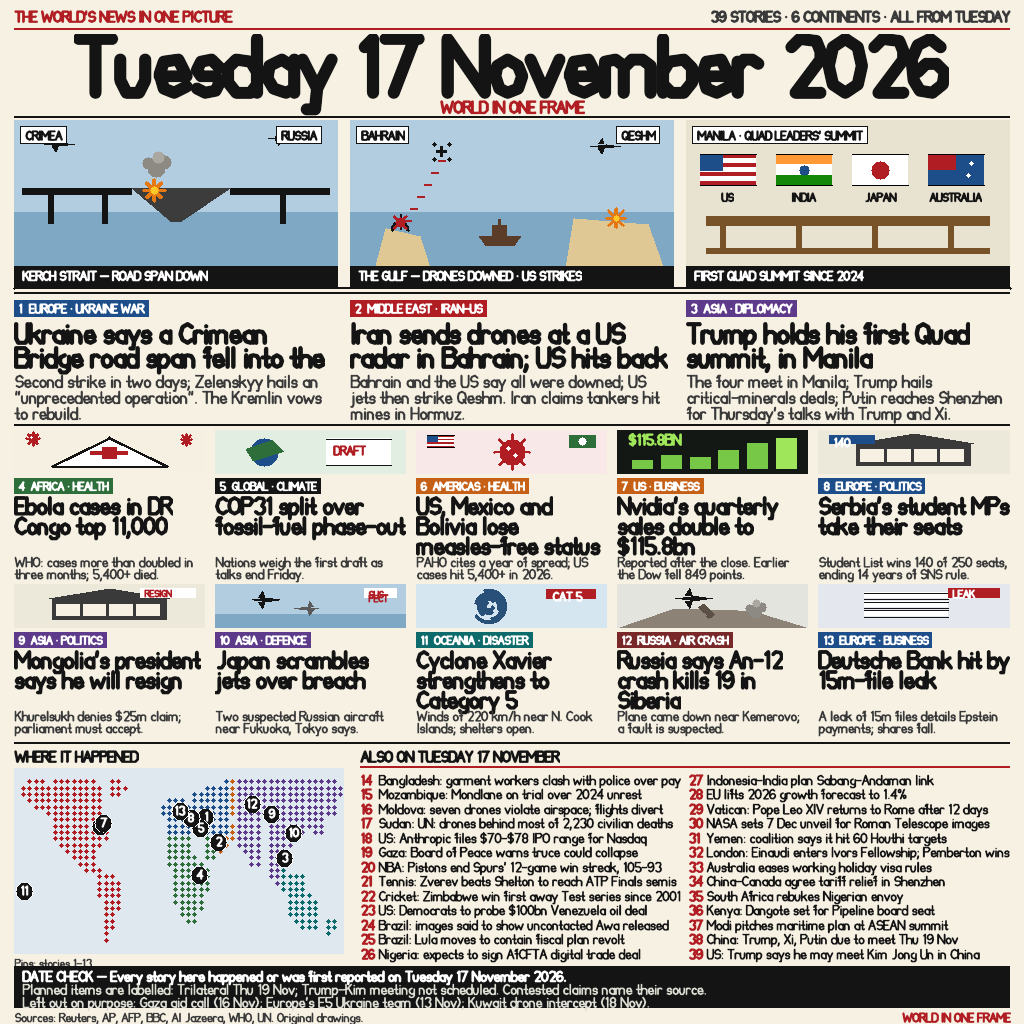
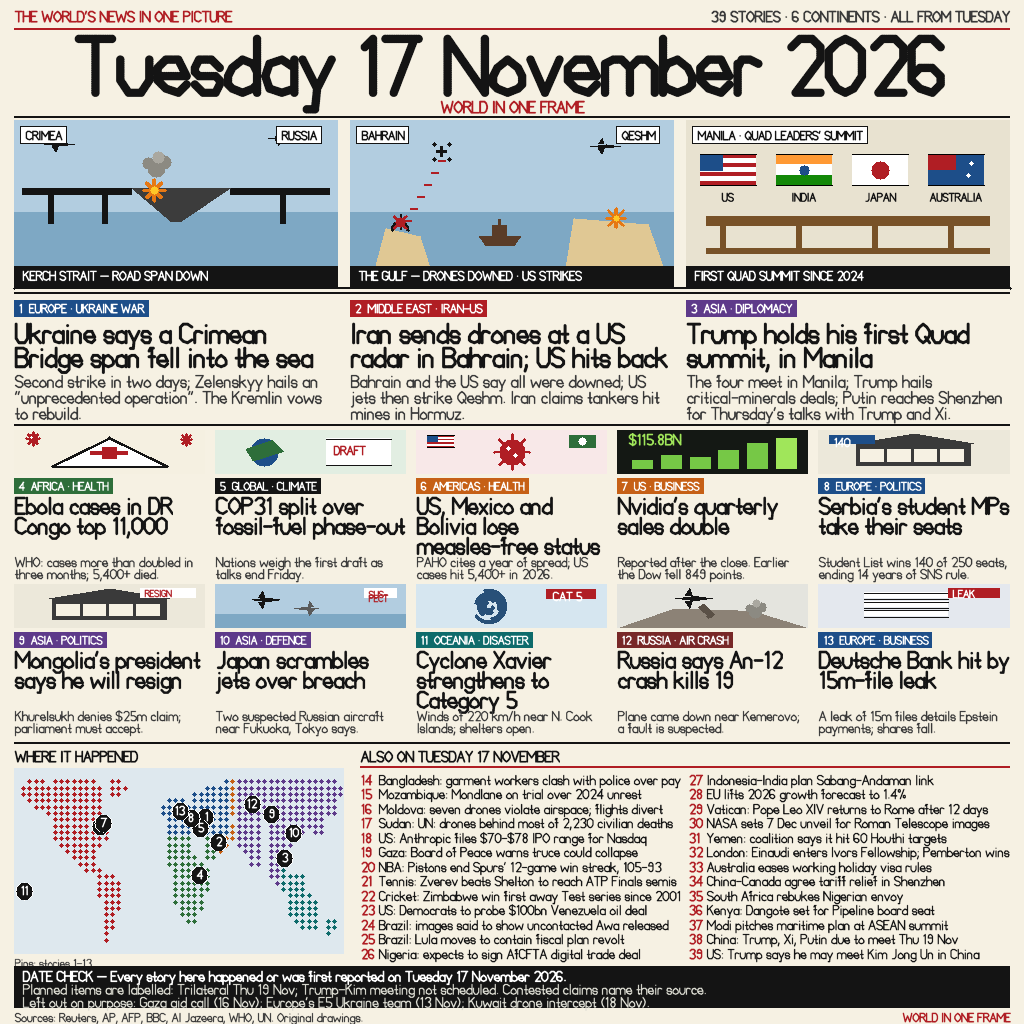
v6: structural typography rebuild — symmetric integer-grid glyphs, disc-stamp pen renderer, serif display mode, headline truncation fixes

diff --git a/main.py b/main.py
@@ -195,124 +195,127 @@ def write_png(cv, path):
     return len(png)
 
 # ------------------------------------------------- proportional stroke font
-# Hand-authored condensed sans. Coordinates: y=0 top of capitals,
-# y=14 baseline, y=18 descender bottom, x-height top y=6.
-# Each glyph: (advance width in units, [stroke, ...]); a stroke is a
-# polyline; a one-point stroke renders as a dot.
+# Hand-authored condensed sans, REDRAWN v6: every curve is a symmetric
+# integer-grid octagon/S-template (left vertex mirrors right vertex, top
+# mirrors bottom under 180-degree rotation for S/s/5/$). No fractional
+# coordinates except .5 centres (5.5, 4.5) which are symmetric by
+# construction. Coordinates: y=1 top of capitals, y=6 top of x-height,
+# y=14 baseline, y=18 descender bottom.
+# A serif render mode (draw_text serif=True) re-uses these skeletons:
+# vertical strokes render thick, horizontals thin, and short serif ticks
+# are added at steep stroke endpoints on y in {1, 6, 14}.
 FONT = {
     ' ': (5, []),
-    'A': (11, [[(1, 14), (5.5, 1), (10, 14)], [(3.2, 9), (7.8, 9)]]),
-    'B': (10, [[(1, 1), (1, 14)], [(1, 1), (7, 1), (9.5, 3.5), (7, 6.5), (1, 6.5)],
-             [(1, 6.5), (8, 6.5), (10.5, 9.5), (8, 14), (1, 14)]]),
-    'C': (10, [[(9, 3), (6, 1), (2.5, 3), (1, 8), (2.5, 12), (6, 14), (9, 12)]]),
-    'D': (10, [[(1, 1), (1, 14)], [(1, 1), (6.5, 1), (9.5, 4), (9.5, 11), (6.5, 14), (1, 14)]]),
-    'E': (9, [[(1, 1), (1, 14)], [(1, 1), (8, 1)], [(1, 7.5), (6.5, 7.5)], [(1, 14), (8, 14)]]),
-    'F': (9, [[(1, 1), (1, 14)], [(1, 1), (8, 1)], [(1, 7.5), (6.5, 7.5)]]),
-    'G': (10, [[(9, 3), (6, 1), (2.5, 3), (1, 8), (2.5, 12), (6, 14), (9, 12), (9, 8), (6, 8)]]),
-    'H': (10, [[(1, 1), (1, 14)], [(9, 1), (9, 14)], [(1, 7.5), (9, 7.5)]]),
+    'A': (11, [[(1, 14), (5.5, 1), (10, 14)], [(3, 9), (8, 9)]]),
+    'B': (10, [[(1, 1), (1, 14)], [(1, 1), (6, 1), (8, 2), (9, 4), (8, 6), (6, 7), (1, 7)],
+             [(1, 7), (6, 7), (8, 8), (9, 10), (9, 12), (7, 14), (1, 14)]]),
+    'C': (10, [[(9, 3), (6, 1), (3, 1), (1, 3), (1, 11), (3, 13), (6, 14), (9, 12)]]),
+    'D': (10, [[(1, 1), (1, 14)], [(1, 1), (6, 1), (8, 3), (9, 6), (9, 9), (8, 12), (6, 14), (1, 14)]]),
+    'E': (9, [[(1, 1), (1, 14)], [(1, 1), (8, 1)], [(1, 7), (6, 7)], [(1, 14), (8, 14)]]),
+    'F': (9, [[(1, 1), (1, 14)], [(1, 1), (8, 1)], [(1, 7), (6, 7)]]),
+    'G': (10, [[(9, 3), (6, 1), (3, 1), (1, 3), (1, 11), (3, 13), (6, 14), (9, 12), (9, 8), (6, 8)]]),
+    'H': (10, [[(1, 1), (1, 14)], [(9, 1), (9, 14)], [(1, 7), (9, 7)]]),
     'I': (4, [[(2, 1), (2, 14)]]),
-    'J': (9, [[(7, 1), (7, 11), (5, 14), (2.5, 14)]]),
-    'K': (10, [[(1, 1), (1, 14)], [(8, 1), (2, 7.5)], [(4, 5.5), (9, 14)]]),
+    'J': (9, [[(7, 1), (7, 11), (5, 14), (2, 14)]]),
+    'K': (10, [[(1, 1), (1, 14)], [(8, 1), (2, 7)], [(4, 5), (9, 14)]]),
     'L': (9, [[(1, 1), (1, 14)], [(1, 14), (8, 14)]]),
     'M': (13, [[(1, 14), (1, 1), (6.5, 9), (12, 1), (12, 14)]]),
     'N': (11, [[(1, 14), (1, 1), (10, 14), (10, 1)]]),
-    'O': (11, [[(5.5, 1), (2, 3), (1, 7.5), (2, 12), (5.5, 14), (9, 12), (10, 7.5), (9, 3), (5.5, 1)]]),
-    'P': (10, [[(1, 14), (1, 1)], [(1, 1), (7, 1), (9.5, 3.5), (7, 7), (1, 7)]]),
-    'Q': (11, [[(5.5, 1), (2, 3), (1, 7.5), (2, 12), (5.5, 14), (9, 12), (10, 7.5), (9, 3), (5.5, 1)],
+    'O': (11, [[(5.5, 1), (8, 3), (10, 6), (10, 9), (8, 12), (5.5, 14), (3, 12), (1, 9), (1, 6), (3, 3), (5.5, 1)]]),
+    'P': (10, [[(1, 1), (1, 14)], [(1, 1), (6, 1), (8, 2), (9, 4), (8, 6), (6, 7), (1, 7)]]),
+    'Q': (11, [[(5.5, 1), (8, 3), (10, 6), (10, 9), (8, 12), (5.5, 14), (3, 12), (1, 9), (1, 6), (3, 3), (5.5, 1)],
              [(7, 10), (10, 14)]]),
-    'R': (10, [[(1, 14), (1, 1)], [(1, 1), (7, 1), (9.5, 3.5), (7, 7), (1, 7)], [(5, 7), (10, 14)]]),
-    'S': (10, [[(9, 3.5), (6, 1), (2.5, 2.5), (1.5, 5.5), (3, 7.5), (8, 7.5), (9.5, 9.5),
-             (8.5, 12.5), (5, 14), (2, 12.5)]]),
+    'R': (10, [[(1, 1), (1, 14)], [(1, 1), (6, 1), (8, 2), (9, 4), (8, 6), (6, 7), (1, 7)], [(5, 7), (10, 14)]]),
+    'S': (10, [[(9, 3), (6, 1), (3, 1), (1, 3), (1, 5), (3, 7), (7, 8), (9, 10), (9, 12), (7, 14), (4, 14), (1, 12)]]),
     'T': (10, [[(1, 1), (9, 1)], [(5, 1), (5, 14)]]),
-    'U': (10, [[(1, 1), (1, 11), (2.5, 14), (7.5, 14), (9, 11), (9, 1)]]),
+    'U': (10, [[(1, 1), (1, 11), (3, 14), (7, 14), (9, 11), (9, 1)]]),
     'V': (11, [[(1, 1), (5.5, 14), (10, 1)]]),
-    'W': (15, [[(1, 1), (3.5, 14), (7, 5), (10.5, 14), (14, 1)]]),
+    'W': (15, [[(1, 1), (4, 14), (7.5, 5), (11, 14), (14, 1)]]),
     'X': (10, [[(1, 1), (9, 14)], [(9, 1), (1, 14)]]),
-    'Y': (10, [[(1, 1), (5, 7.5)], [(9, 1), (5, 7.5)], [(5, 7.5), (5, 14)]]),
+    'Y': (10, [[(1, 1), (5, 7)], [(9, 1), (5, 7)], [(5, 7), (5, 14)]]),
     'Z': (10, [[(1, 1), (9, 1)], [(9, 1), (1, 14)], [(1, 14), (9, 14)]]),
-    'a': (9, [[(8, 6), (8, 14)], [(8, 8), (5, 6), (2, 7.5), (1.5, 10.5), (3, 13), (6, 14), (8, 13)]]),
-    'b': (9, [[(1, 1), (1, 14)], [(1, 9), (2.5, 6.5), (6, 6), (8, 8), (8, 11.5), (6, 14), (3, 14), (1, 12)]]),
-    'c': (8, [[(7, 7.5), (5, 6), (2.5, 7), (1.5, 10), (2.5, 13), (5, 14), (7, 13)]]),
-    'd': (9, [[(8, 1), (8, 14)], [(8, 9), (6.5, 6.5), (3, 6), (1, 8), (1, 11.5), (3, 14), (6.5, 14), (8, 12)]]),
-    'e': (9, [[(8, 10), (6, 6), (2.5, 6.5), (1.5, 9.5), (2.5, 13), (5, 14), (8, 12.5)],
-             [(1.5, 10), (8, 10)]]),
-    'f': (6, [[(3.5, 1), (3.5, 14)], [(1, 3.5), (2.5, 1), (4.5, 1)], [(1, 7), (5, 7)]]),
-    'g': (9, [[(5, 6), (2, 7.5), (1.5, 10.5), (3, 13), (6, 14), (8, 12), (8, 7)],
-             [(8, 12), (8, 16), (6, 18), (2.5, 18), (1.5, 16.5)]]),
-    'h': (9, [[(1, 1), (1, 14)], [(1, 9), (3, 6.5), (6, 6.5), (8, 8), (8, 14)]]),
-    'i': (4, [[(2, 6), (2, 14)], [(2, 2.5)]]),
-    'j': (5, [[(3, 6), (3, 16), (2, 18), (0.5, 18)], [(3, 2.5)]]),
-    'k': (9, [[(1, 1), (1, 14)], [(7, 6), (2, 9.5)], [(3.5, 8), (8, 14)]]),
+    'a': (9, [[(8, 6), (8, 14)], [(8, 8), (5, 6), (2, 7), (1, 10), (2, 13), (5, 14), (8, 13)]]),
+    'b': (9, [[(1, 1), (1, 14)], [(1, 9), (2, 7), (4.5, 6), (7, 8), (8, 10), (8, 12), (7, 13), (4.5, 14), (2, 13), (1, 12)]]),
+    'c': (8, [[(7, 8), (5, 6), (2, 7), (1, 10), (2, 13), (5, 14), (7, 13)]]),
+    'd': (9, [[(8, 1), (8, 14)], [(8, 9), (7, 7), (4.5, 6), (2, 8), (1, 10), (1, 12), (2, 13), (4.5, 14), (7, 13), (8, 12)]]),
+    'e': (9, [[(8, 10), (6, 6), (3, 6), (1, 8), (1, 11), (3, 13), (6, 14), (8, 12)],
+             [(1, 10), (8, 10)]]),
+    'f': (6, [[(3, 1), (3, 14)], [(1, 3), (2, 1), (4, 1)], [(1, 7), (5, 7)]]),
+    'g': (9, [[(8, 6), (8, 14)], [(8, 8), (5, 6), (2, 7), (1, 10), (2, 13), (5, 14), (8, 13)],
+             [(8, 12), (8, 16), (6, 18), (3, 18), (1, 16)]]),
+    'h': (9, [[(1, 1), (1, 14)], [(1, 9), (2, 7), (4, 6), (6, 6), (8, 8), (8, 14)]]),
+    'i': (4, [[(2, 6), (2, 14)], [(2, 2)]]),
+    'j': (5, [[(3, 6), (3, 16), (2, 18), (1, 18)], [(3, 2)]]),
+    'k': (9, [[(1, 1), (1, 14)], [(7, 6), (2, 9)], [(3, 8), (8, 14)]]),
     'l': (4, [[(2, 1), (2, 14)]]),
-    'm': (14, [[(1, 14), (1, 6.5)], [(1, 6.5), (3.5, 6), (5.5, 7.5), (5.5, 14)],
-              [(5.5, 8), (7.5, 6), (10, 6), (12, 7.5), (12, 14)]]),
-    'n': (9, [[(1, 14), (1, 6.5)], [(1, 6.5), (3, 6), (5.5, 6.5), (7, 9), (7, 14)]]),
-    'o': (9, [[(4.5, 6), (2, 7.5), (1.5, 10), (2.5, 13), (4.5, 14), (7, 13), (8, 10), (7, 7.5), (4.5, 6)]]),
-    'p': (9, [[(1, 6), (1, 18)], [(1, 10), (2.5, 6.5), (5.5, 6), (7.5, 8), (7.5, 11), (5.5, 14), (2.5, 14), (1, 12.5)]]),
-    'q': (9, [[(8, 6), (8, 18)], [(8, 10), (6.5, 6.5), (3.5, 6), (1.5, 8), (1.5, 11), (3.5, 14), (6.5, 14), (8, 12.5)]]),
-    'r': (7, [[(1, 14), (1, 6.5)], [(1, 8), (2.5, 6), (4.5, 6), (6, 7)]]),
-    's': (8, [[(7, 8), (5, 6), (2.5, 6.5), (1.5, 8.5), (2.5, 10), (6, 10), (7, 11.5),
-             (6, 13.5), (3.5, 14), (1.5, 13)]]),
-    't': (6, [[(3, 1.5), (3, 13), (4.5, 14), (5.5, 13)], [(0.5, 7.5), (5, 7.5)]]),
-    'u': (9, [[(1, 6), (1, 11), (2.5, 14), (5.5, 14), (7, 11), (7, 6)]]),
+    'm': (14, [[(1, 14), (1, 7), (3, 6), (5, 6), (7, 8), (7, 14)],
+              [(7, 8), (9, 6), (11, 6), (13, 8), (13, 14)]]),
+    'n': (9, [[(1, 14), (1, 7), (3, 6), (5, 6), (7, 8), (7, 14)]]),
+    'o': (9, [[(4.5, 6), (7, 8), (8, 10), (8, 12), (7, 13), (4.5, 14), (2, 13), (1, 12), (1, 10), (2, 8), (4.5, 6)]]),
+    'p': (9, [[(1, 6), (1, 18)], [(1, 10), (2, 7), (4.5, 6), (7, 8), (8, 10), (8, 12), (7, 13), (4.5, 14), (2, 13), (1, 12)]]),
+    'q': (9, [[(8, 6), (8, 18)], [(8, 10), (7, 7), (4.5, 6), (2, 8), (1, 10), (1, 12), (2, 13), (4.5, 14), (7, 13), (8, 12)]]),
+    'r': (7, [[(1, 14), (1, 7)], [(1, 8), (2, 6), (4, 6), (6, 7)]]),
+    's': (8, [[(7, 8), (5, 6), (2, 6), (1, 8), (1, 9), (2, 10), (6, 10), (7, 11), (7, 12), (6, 14), (3, 14), (1, 12)]]),
+    't': (6, [[(3, 2), (3, 13), (4, 14), (5, 13)], [(1, 8), (5, 8)]]),
+    'u': (9, [[(1, 6), (1, 11), (3, 14), (6, 14), (8, 11), (8, 6)]]),
     'v': (9, [[(1, 6), (4.5, 14), (8, 6)]]),
-    'w': (13, [[(1, 6), (3, 14), (6, 8), (9, 14), (12, 6)]]),
+    'w': (13, [[(1, 6), (3, 14), (6.5, 8), (10, 14), (12, 6)]]),
     'x': (8, [[(1, 6), (7, 14)], [(7, 6), (1, 14)]]),
     'y': (9, [[(1, 6), (4.5, 13), (8, 6)], [(4.5, 13), (4, 18), (2, 18)]]),
     'z': (8, [[(1, 6), (7, 6)], [(7, 6), (1, 14)], [(1, 14), (7, 14)]]),
-    '0': (10, [[(5, 1), (2, 3), (1, 7.5), (2, 12), (5, 14), (8, 12), (9, 7.5), (8, 3), (5, 1)]]),
+    '0': (10, [[(5, 1), (7, 2), (9, 4), (9, 10), (7, 13), (5, 14), (3, 13), (1, 10), (1, 4), (3, 2), (5, 1)]]),
     '1': (6, [[(2, 3), (4, 1), (4, 14)]]),
-    '2': (10, [[(2, 3), (4, 1), (8, 1.5), (9, 4), (9, 6), (3, 14), (9, 14)]]),
-    '3': (10, [[(2, 3), (4, 1), (8, 1.5), (9, 4), (7, 7.5)], [(7, 7.5), (9, 9), (9, 12), (7, 14), (4, 14), (2, 12.5)]]),
+    '2': (10, [[(2, 3), (4, 1), (7, 1), (9, 3), (9, 6), (3, 14), (9, 14)]]),
+    '3': (10, [[(2, 3), (4, 1), (7, 1), (9, 3), (8, 6), (6, 7)], [(6, 7), (8, 8), (9, 10), (9, 12), (7, 14), (4, 14), (2, 13)]]),
     '4': (10, [[(7, 1), (7, 14)], [(1, 10), (9, 10)], [(8, 1), (1, 10)]]),
-    '5': (10, [[(8, 1), (1.5, 1), (1.5, 7)], [(1.5, 7), (6, 7), (9, 9), (9, 12), (7, 14), (4, 14), (2, 12)]]),
-    '6': (10, [[(8, 3), (5.5, 1), (2.5, 2.5), (1, 6), (1.5, 11), (3, 13.5), (6, 14),
-             (8.5, 12), (9, 9), (7, 7), (4.5, 7), (2.5, 9)]]),
+    '5': (10, [[(8, 1), (2, 1), (2, 7)], [(2, 7), (6, 7), (9, 9), (9, 12), (7, 14), (4, 14), (2, 13)]]),
+    '6': (10, [[(8, 3), (6, 1), (3, 1), (1, 3), (1, 11), (3, 13), (6, 14), (8, 12), (8, 10), (6, 8), (3, 8), (1, 10)]]),
     '7': (10, [[(1, 1), (9, 1)], [(8, 1), (3, 14)]]),
-    '8': (10, [[(5, 1), (2.5, 2.5), (1.5, 5), (3, 7.5), (7, 7.5), (8.5, 5), (7.5, 2.5), (5, 1)],
-             [(3, 7.5), (1.5, 10), (2.5, 13), (5, 14), (7.5, 13), (8.5, 10), (7, 7.5)]]),
-    '9': (10, [[(2, 12), (4.5, 14), (7.5, 12.5), (9, 9), (8.5, 4), (7, 1.5), (4, 1),
-             (1.5, 3), (1, 6), (2.5, 8), (5, 8), (7.5, 6)]]),
-    '.': (4, [[(2, 13.5)]]),
-    ',': (4, [[(2, 13), (2, 14.5), (1, 17)]]),
-    ':': (4, [[(2, 7)], [(2, 13.5)]]),
-    ';': (4, [[(2, 7)], [(2, 13), (2, 14.5), (1, 17)]]),
-    '!': (4, [[(2, 1), (2, 10.5)], [(2, 13.5)]]),
-    '?': (9, [[(2, 3.5), (3.5, 1), (7, 1.5), (8, 4), (7, 6.5), (4.5, 7.5), (4.5, 10)], [(4.5, 13.5)]]),
-    "'": (4, [[(2, 1), (1.5, 4.5)]]),
-    '\u2019': (4, [[(2, 1), (1.5, 4.5)]]),
-    '"': (7, [[(2, 1), (1.5, 4.5)], [(5, 1), (4.5, 4.5)]]),
-    '\u201c': (7, [[(2, 1), (1.5, 4.5)], [(5, 1), (4.5, 4.5)]]),
-    '\u201d': (7, [[(2, 1), (1.5, 4.5)], [(5, 1), (4.5, 4.5)]]),
+    '8': (10, [[(5, 1), (7, 2), (8, 4), (7, 6), (5, 7), (3, 6), (2, 4), (3, 2), (5, 1)],
+             [(5, 7), (7, 8), (8, 10), (7, 13), (5, 14), (3, 13), (2, 10), (3, 8), (5, 7)]]),
+    '9': (10, [[(2, 5), (3, 2), (5, 1), (7, 2), (8, 4), (8, 11), (7, 13), (5, 14), (3, 13), (2, 11)],
+             [(8, 6), (2, 6)]]),
+    '.': (4, [[(2, 13)]]),
+    ',': (4, [[(2, 13), (2, 14), (1, 17)]]),
+    ':': (4, [[(2, 7)], [(2, 13)]]),
+    ';': (4, [[(2, 7)], [(2, 13), (2, 14), (1, 17)]]),
+    '!': (4, [[(2, 1), (2, 10)], [(2, 13)]]),
+    '?': (9, [[(2, 3), (3, 1), (6, 1), (8, 3), (8, 5), (6, 7), (4, 7), (4, 10)], [(4, 13)]]),
+    "'": (4, [[(2, 1), (1, 4)]]),
+    '\u2019': (4, [[(2, 1), (1, 4)]]),
+    '"': (7, [[(2, 1), (1, 4)], [(5, 1), (4, 4)]]),
+    '\u201c': (7, [[(2, 1), (1, 4)], [(5, 1), (4, 4)]]),
+    '\u201d': (7, [[(2, 1), (1, 4)], [(5, 1), (4, 4)]]),
     '-': (8, [[(1, 8), (7, 8)]]),
     '\u2013': (9, [[(1, 8), (8, 8)]]),
     '\u2014': (13, [[(1, 8), (12, 8)]]),
-    '(': (6, [[(5, 1), (3, 4), (2, 7.5), (3, 11), (5, 14)]]),
-    ')': (6, [[(1, 1), (3, 4), (4, 7.5), (3, 11), (1, 14)]]),
-    '/': (8, [[(6.5, 1), (1.5, 14)]]),
-    '&': (11, [[(8, 1.5), (5, 1), (2.5, 3), (2, 6), (3.5, 8.5), (8, 10.5), (9.5, 12.5),
-             (8, 14), (4.5, 14), (2, 12)]]),
-    '%': (13, [[(9.5, 1), (4.5, 14)],
-             [(3, 1), (1.5, 2), (1.5, 4.5), (3, 5.5), (4.5, 4.5), (4.5, 2), (3, 1)],
-             [(10, 9), (8.5, 10), (8.5, 12.5), (10, 13.5), (11.5, 12.5), (11.5, 10), (10, 9)]]),
-    '+': (9, [[(4.5, 3), (4.5, 12)], [(1, 7.5), (8, 7.5)]]),
+    '(': (6, [[(5, 1), (3, 4), (2, 7), (3, 11), (5, 14)]]),
+    ')': (6, [[(1, 1), (3, 4), (4, 7), (3, 11), (1, 14)]]),
+    '/': (8, [[(6, 1), (1, 14)]]),
+    '&': (11, [[(8, 2), (5, 1), (2, 3), (2, 6), (3, 8), (8, 10), (9, 12), (8, 14), (4, 14), (2, 12)]]),
+    '%': (13, [[(9, 1), (4, 14)],
+             [(3, 1), (1, 2), (1, 4), (3, 5), (4, 4), (4, 2), (3, 1)],
+             [(10, 9), (8, 10), (8, 12), (10, 13), (11, 12), (11, 10), (10, 9)]]),
+    '+': (9, [[(4, 3), (4, 12)], [(1, 7), (8, 7)]]),
     '=': (9, [[(1, 6), (8, 6)], [(1, 10), (8, 10)]]),
-    '$': (10, [[(8, 3.5), (5, 1), (2, 2.5), (1, 5.5), (2.5, 7.5), (7, 7.5), (8.5, 9.5),
-             (7.5, 12.5), (4, 14), (1.5, 12.5)], [(5, 0), (5, 15)]]),
-    '\u00b0': (5, [[(2.5, 1), (1, 2), (1, 4), (2.5, 5), (4, 4), (4, 2), (2.5, 1)]]),
-    '\u2022': (5, [[(2.5, 8)]]),
+    '$': (10, [[(9, 3), (6, 1), (3, 1), (1, 3), (1, 5), (3, 7), (7, 8), (9, 10), (9, 12), (7, 14), (4, 14), (1, 12)],
+             [(5, 0), (5, 15)]]),
+    '#': (10, [[(3, 1), (3, 14)], [(7, 1), (7, 14)], [(1, 5), (9, 5)], [(1, 10), (9, 10)]]),
+    '\u00b0': (5, [[(2, 1), (1, 2), (1, 4), (2, 5), (4, 4), (4, 2), (2, 1)]]),
+    '\u2022': (5, [[(2, 8)]]),
     '\u00b7': (4, [[(2, 8)]]),
     '[': (5, [[(4, 1), (1, 1), (1, 14), (4, 14)]]),
     ']': (5, [[(1, 1), (4, 1), (4, 14), (1, 14)]]),
     '*': (8, [[(4, 3), (4, 11)], [(1, 5), (7, 9)], [(7, 5), (1, 9)]]),
     '_': (9, [[(1, 15), (8, 15)]]),
-    '<': (8, [[(6, 2), (1, 7.5), (6, 13)]]),
-    '>': (8, [[(1, 2), (6, 7.5), (1, 13)]]),
+    '<': (8, [[(6, 2), (1, 7), (6, 13)]]),
+    '>': (8, [[(1, 2), (6, 7), (1, 13)]]),
     '|': (3, [[(1.5, 1), (1.5, 14)]]),
-    '~': (9, [[(1, 9), (3, 6.5), (5, 9), (7, 6.5), (8, 9)]]),
-    '\u00d7': (9, [[(1.5, 4), (7.5, 10)], [(7.5, 4), (1.5, 10)]]),
-    '\u2192': (11, [[(1, 7.5), (9, 7.5)], [(6.5, 4), (10, 7.5), (6.5, 11)]]),
+    '~': (9, [[(1, 9), (3, 6), (5, 9), (7, 6), (8, 9)]]),
+    '\u00d7': (9, [[(1, 4), (7, 10)], [(7, 4), (1, 10)]]),
+    '\u2192': (11, [[(1, 7), (9, 7)], [(6, 4), (10, 7), (6, 11)]]),
 }
+
 
 # ------------------------------------------------------------ text engine
 def text_width(s, cap):
@@ -350,24 +353,57 @@ def wrap_text(s, cap, maxw):
     return lines
 
 
-def _render_glyph_ss(buf, bw, x0, y0, sc, stroke_w, ch):
-    """Draw one glyph into a supersampled greyscale buffer (0..255)."""
+def _render_glyph_ss(buf, bw, x0, y0, sc, stroke_w, ch, serif=False):
+    """Draw one glyph into a supersampled greyscale buffer (0..255).
+    Strokes are stamped as a chain of overlapping discs along the
+    polyline: a single continuous pen, so joints never bulge and
+    stems stay perfectly straight.
+    Serif mode (display type): vertical segments render thick,
+    horizontals thin (high-contrast Didone/Playfair feel), and short
+    serif ticks are added at steep stroke endpoints on y in {1, 6, 14}."""
     g = FONT.get(ch)
     if g is None:
         g = FONT['?']
+    r = stroke_w / 2.0
+    step = max(1.0, r * 0.55)
     for stroke in g[1]:
         if len(stroke) == 1:
             px, py = stroke[0]
-            cx = x0 + px * sc
-            cy = y0 + py * sc
-            r = stroke_w / 2.0
-            _disc_ss(buf, bw, cx, cy, r)
+            _disc_ss(buf, bw, x0 + px * sc, y0 + py * sc, r)
             continue
         for i in range(len(stroke) - 1):
             x1, y1 = stroke[i]
             x2, y2 = stroke[i + 1]
-            _thick_line_ss(buf, bw, x0 + x1 * sc, y0 + y1 * sc,
-                           x0 + x2 * sc, y0 + y2 * sc, stroke_w)
+            ax, ay = x0 + x1 * sc, y0 + y1 * sc
+            bx, by = x0 + x2 * sc, y0 + y2 * sc
+            if serif:
+                dux, duy = abs(x2 - x1), abs(y2 - y1)
+                if dux <= 0.6 and duy >= 2:
+                    rr = r * 1.5
+                elif duy <= 0.6 and dux >= 2:
+                    rr = r * 0.62
+                else:
+                    rr = r
+            else:
+                rr = r
+            L = math.hypot(bx - ax, by - ay)
+            n = max(1, int(math.ceil(L / step)))
+            for k in range(n + 1):
+                t = k / n
+                _disc_ss(buf, bw, ax + (bx - ax) * t, ay + (by - ay) * t, rr)
+        if serif:
+            # serif ticks at steep stroke endpoints on cap/x-height/baseline
+            for (ex, ey) in (stroke[0], stroke[-1]):
+                seg = stroke[1] if (ex, ey) == stroke[0] else stroke[-2]
+                dux, duy = abs(seg[0] - ex), abs(seg[1] - ey)
+                if duy >= 1.2 * dux and duy >= 2 and ey in (1, 6, 14):
+                    cx = x0 + ex * sc
+                    cy = y0 + ey * sc
+                    half = 1.2 * sc
+                    tr = r * 0.62
+                    n2 = max(1, int(math.ceil(2 * half / step)))
+                    for k in range(n2 + 1):
+                        _disc_ss(buf, bw, cx - half + 2 * half * k / n2, cy, tr)
 
 
 def _disc_ss(buf, bw, cx, cy, r):
@@ -422,7 +458,7 @@ def _poly_ss(buf, bw, pts):
                 _ss_set(buf, bw, x, y)
 
 
-def draw_text(cv, x, y, s, cap, color, bold=False, align='left', maxw=None):
+def draw_text(cv, x, y, s, cap, color, bold=False, align='left', maxw=None, serif=False):
     """Draw text at (x, y) = top-left of cap line; y is the cap top.
     Supersampled 3x with box downsample for anti-aliasing."""
     if not s:
@@ -436,7 +472,7 @@ def draw_text(cv, x, y, s, cap, color, bold=False, align='left', maxw=None):
     if maxw is not None:
         w_px = min(w_px, maxw)
     SS = 4
-    sw = 1.9 * sc * SS * (1.5 if bold else 1.0)
+    sw = 1.55 * sc * SS * (1.28 if bold else 1.0)
     bw = int(math.ceil(w_px * SS)) + 6
     bh = int(math.ceil(20 * sc * SS)) + 6
     buf = bytearray(bw * bh)
@@ -445,7 +481,7 @@ def draw_text(cv, x, y, s, cap, color, bold=False, align='left', maxw=None):
         g = FONT.get(ch)
         if g is None:
             g = FONT['?']
-        _render_glyph_ss(buf, bw, cx, 3.0, sc * SS, sw, ch)
+        _render_glyph_ss(buf, bw, cx, 3.0, sc * SS, sw, ch, serif=serif)
         cx += g[0] * sc * SS
     # one 3x3 box-blur pass on the supersampled buffer: smooths the
     # polygonal stroke joints so small text reads clean, not hand-drawn
@@ -479,12 +515,12 @@ def draw_text(cv, x, y, s, cap, color, bold=False, align='left', maxw=None):
                 cv.blend(ox + dx, oy + dy, color, min(1.0, a * 1.15))
 
 
-def draw_para(cv, x, y, lines, cap, color, leading=None, bold=False, align='left', maxw=None):
+def draw_para(cv, x, y, lines, cap, color, leading=None, bold=False, align='left', maxw=None, serif=False):
     """Draw pre-wrapped lines; returns y after the last line."""
     if leading is None:
         leading = cap * 1.32
     for ln in lines:
-        draw_text(cv, x, y, ln, cap, color, bold=bold, align=align, maxw=maxw)
+        draw_text(cv, x, y, ln, cap, color, bold=bold, align=align, maxw=maxw, serif=serif)
         y += leading
     return y
 
@@ -942,7 +978,7 @@ def _chip(cv, x, y, s, cap):
 # mediums ~60-75 chars. lat/lon for the map pins.
 STORIES = [
     dict(n=1, kicker='1  EUROPE · UKRAINE WAR', icon='kerch', lon=36.5, lat=45.3,
-         head='Ukraine says a Crimean Bridge road span fell into the sea',
+         head='Ukraine says a Crimean Bridge span fell into the sea',
          deck='Second strike in two days; Zelenskyy hails an \u201cunprecedented operation\u201d. '
               'The Kremlin vows to rebuild.'),
     dict(n=2, kicker='2  MIDDLE EAST · IRAN–US', icon='iran', lon=50.5, lat=26.2,
@@ -963,7 +999,7 @@ STORIES = [
          head='US, Mexico and Bolivia lose measles-free status',
          deck='PAHO cites a year of spread; US cases hit 5,400+ in 2026.'),
     dict(n=7, kicker='7  US · BUSINESS', icon='nvidia', lon=-74.0, lat=40.7,
-         head='Nvidia\u2019s quarterly sales double to $115.8bn',
+         head='Nvidia\u2019s quarterly sales double',
          deck='Reported after the close. Earlier the Dow fell 849 points.'),
     dict(n=8, kicker='8  EUROPE · POLITICS', icon='serbia', lon=20.5, lat=44.8,
          head='Serbia\u2019s student MPs take their seats',
@@ -978,7 +1014,7 @@ STORIES = [
          head='Cyclone Xavier strengthens to Category 5',
          deck='Winds of 220 km/h near N. Cook Islands; shelters open.'),
     dict(n=12, kicker='12  RUSSIA · AIR CRASH', icon='an12', lon=86.1, lat=55.4,
-         head='Russia says An-12 crash kills 19 in Siberia',
+         head='Russia says An-12 crash kills 19',
          deck='Plane came down near Kemerovo; a fault is suspected.'),
     dict(n=13, kicker='13  EUROPE · BUSINESS', icon='bank', lon=8.7, lat=50.1,
          head='Deutsche Bank hit by 15m-file leak',
